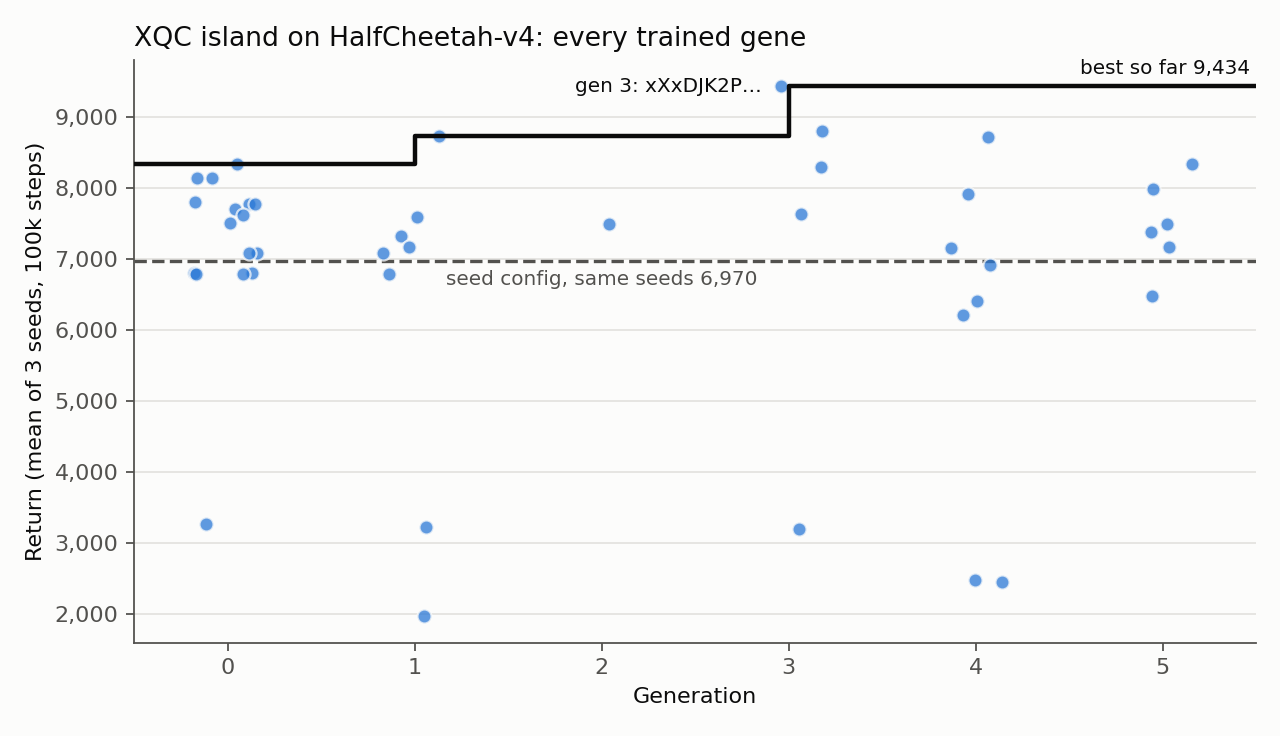
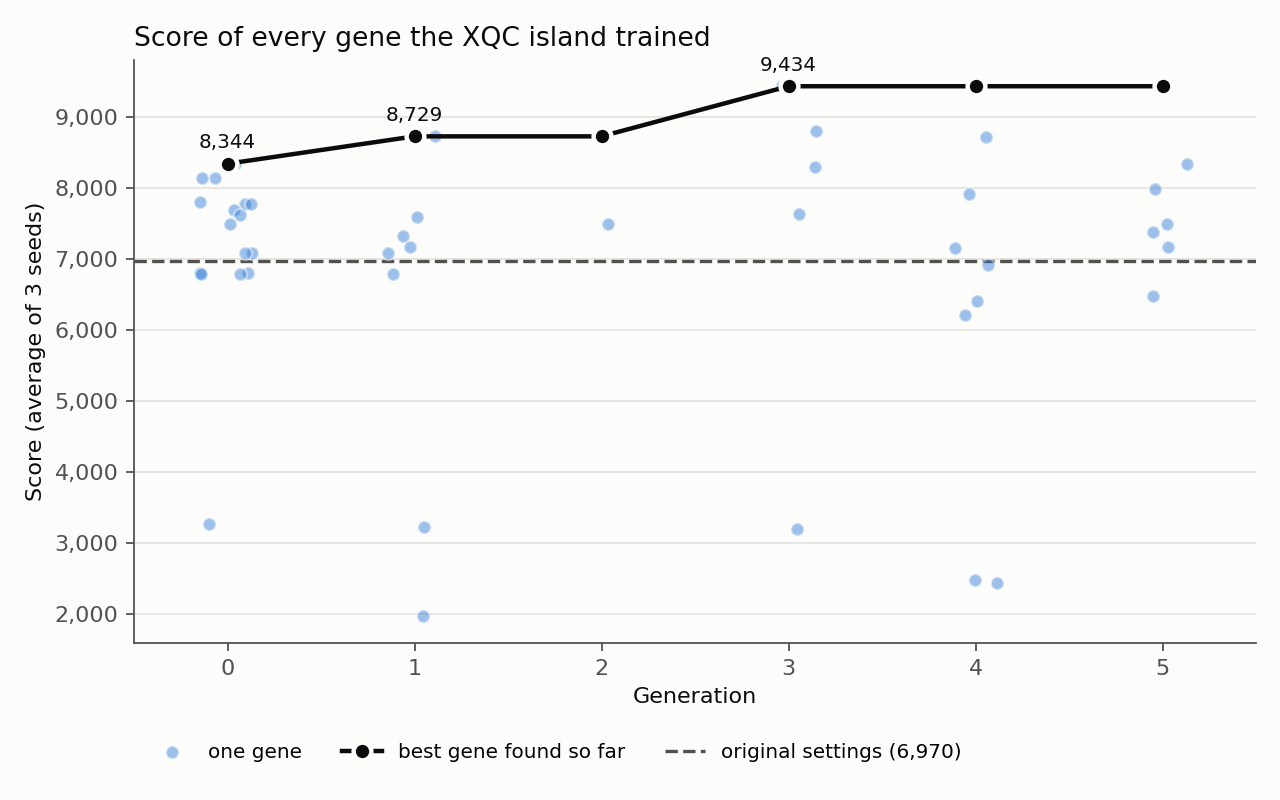
xqc_island_report: plot best-so-far as connected points, legend below

diff --git a/analysis/scripts/xqc_island_report.py b/analysis/scripts/xqc_island_report.py
@@ -151,8 +151,9 @@ def main():
 
 
 def plot(rows, gen_rows, args, path):
-    """One panel: every trained gene (dots), best-so-far (step line across the whole
-    axis) and the seed config on the same seeds (dashed). Counts of invalid and
+    """One panel: every trained gene as a light dot, the best gene of each generation
+    as a dark dot, and a line through the best score found so far at each generation.
+    The seed config on the same seeds is the dashed line. Counts of invalid and
     timed-out genes are in generations.csv rather than on the figure."""
     import matplotlib
     matplotlib.use("Agg")
@@ -160,32 +161,27 @@ def plot(rows, gen_rows, args, path):
 
     dot, ink, muted, grid, bg = "#2a78d6", "#0b0b0b", "#52514e", "#e4e3df", "#fcfcfb"
     gens = [r["generation"] for r in gen_rows]
-    lo, hi = gens[0] - 0.5, gens[-1] + 0.5
-    fig, ax = plt.subplots(figsize=(8, 4.6))
+    fig, ax = plt.subplots(figsize=(8, 5))
     fig.patch.set_facecolor(bg)
     rng = np.random.default_rng(0)
     for g in gens:
         ys = [r["mean_reward"] for r in rows if r["generation"] == g and r["status"] == "ok"]
-        ax.scatter(g + rng.uniform(-0.18, 0.18, len(ys)), ys, s=40, color=dot, alpha=0.75,
-                   edgecolor=bg, linewidth=1, zorder=3)
+        ax.scatter(g + rng.uniform(-0.15, 0.15, len(ys)), ys, s=34, color=dot, alpha=0.45,
+                   edgecolor=bg, linewidth=1, zorder=3, label="one gene" if g == gens[0] else None)
     best = [r["best_so_far"] for r in gen_rows]
-    ax.step([lo] + gens[1:] + [hi], best + [best[-1]], where="post", color=ink, lw=2, zorder=4)
-    ax.text(hi - 0.03, best[-1] + 120, f"best so far {best[-1]:,.0f}", ha="right", va="bottom", fontsize=9, color=ink)
-    top = max((r for r in rows if r["status"] == "ok"), key=lambda r: r["mean_reward"])
-    ax.annotate(f"gen {top['generation']}: {top['gene_id'][:8]}…", (top["generation"], top["mean_reward"]),
-                xytext=(-12, 0), textcoords="offset points", ha="right", va="center", fontsize=9, color=ink)
+    ax.plot(gens, best, color=ink, lw=2, marker="o", ms=8, markeredgecolor=bg, markeredgewidth=2, zorder=4,
+            label="best gene found so far")
+    for g, b, prev in zip(gens, best, [None] + best[:-1]):
+        if b != prev:
+            ax.text(g, b + 160, f"{b:,.0f}", ha="center", va="bottom", fontsize=9, color=ink)
     if args.seed_mean:
-        ax.axhline(args.seed_mean, color=muted, lw=1.5, ls="--", zorder=2)
-        # Label in the sparsest generation column, under the line.
-        sparse = min(gens, key=lambda g: sum(r["generation"] == g and r["status"] == "ok" for r in rows))
-        ax.text(sparse, args.seed_mean - 120, f"seed config, same seeds {args.seed_mean:,.0f}",
-                ha="center", va="top", fontsize=9, color=muted,
-                bbox=dict(facecolor=bg, edgecolor="none", pad=1))
-    ax.set_xlim(lo, hi)
+        ax.axhline(args.seed_mean, color=muted, lw=1.5, ls="--", zorder=2, label=f"original settings ({args.seed_mean:,.0f})")
+    ax.set_xlim(gens[0] - 0.5, gens[-1] + 0.5)
     ax.set_xticks(gens)
     ax.set_xlabel("Generation", color=ink)
-    ax.set_ylabel("Return (mean of 3 seeds, 100k steps)", color=ink)
-    ax.set_title("XQC island on HalfCheetah-v4: every trained gene", loc="left", fontsize=12, color=ink)
+    ax.set_ylabel("Score (average of 3 seeds)", color=ink)
+    ax.set_title("Score of every gene the XQC island trained", loc="left", fontsize=12, color=ink)
+    ax.legend(loc="upper left", bbox_to_anchor=(0, -0.14), ncol=3, fontsize=9, frameon=False)
     ax.set_facecolor(bg)
     ax.grid(axis="y", color=grid, lw=0.8)
     ax.set_axisbelow(True)
